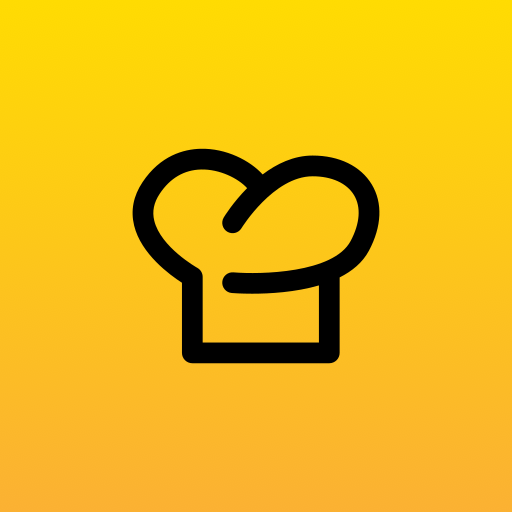
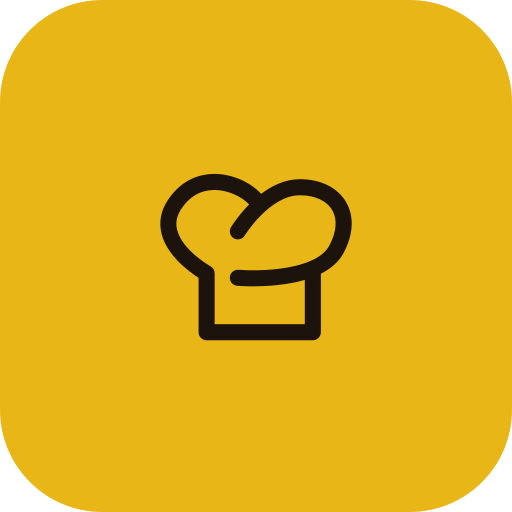
feat: rebranding and moving to the kitshn-app org

diff --git a/shared/src/commonMain/kotlin/de/kitshn/ui/route/onboarding/OnboardingWelcome.kt b/shared/src/commonMain/kotlin/de/kitshn/ui/route/onboarding/OnboardingWelcome.kt
@@ -30,14 +30,12 @@ import androidx.compose.runtime.remember
 import androidx.compose.runtime.rememberCoroutineScope
 import androidx.compose.ui.Alignment
 import androidx.compose.ui.Modifier
-import androidx.compose.ui.graphics.Brush
 import androidx.compose.ui.unit.dp
 import de.kitshn.api.tandoor.TandoorRequestState
 import de.kitshn.ui.component.onboarding.KitshnLogoAnimationWrapper
 import de.kitshn.ui.randomBackgroundShape
 import de.kitshn.ui.route.RouteParameters
-import de.kitshn.ui.theme.KitshnYellowBright
-import de.kitshn.ui.theme.KitshnYellowDark
+import de.kitshn.ui.theme.KitshnYellow
 import de.kitshn.ui.theme.Typography
 import kitshn.shared.generated.resources.Res
 import kitshn.shared.generated.resources.action_next
@@ -129,14 +127,8 @@ fun RouteOnboardingWelcome(
                                 text = p.vm.uiState.userDisplayName.ifBlank {
                                     p.vm.tandoorClient?.credentials?.username ?: ""
                                 },
-                                style = Typography().displaySmall.copy(
-                                    brush = Brush.horizontalGradient(
-                                        colors = listOf(
-                                            KitshnYellowBright,
-                                            KitshnYellowDark
-                                        )
-                                    )
-                                )
+                                style = Typography().displaySmall,
+                                color = KitshnYellow
                             )
                         }
 

diff --git a/web/.vitepress/theme/custom.css b/web/.vitepress/theme/custom.css
@@ -64,10 +64,10 @@
   --vp-c-green-3: #30a46c;
   --vp-c-green-soft: rgba(16, 185, 129, 0.14);
 
-  --vp-c-yellow-1: #915930;
-  --vp-c-yellow-2: #946300;
-  --vp-c-yellow-3: #9f6a00;
-  --vp-c-yellow-soft: rgba(234, 179, 8, 0.14);
+  --vp-c-yellow-1: #907100;
+  --vp-c-yellow-2: #a27f00;
+  --vp-c-yellow-3: #b18f00;
+  --vp-c-yellow-soft: rgba(232, 182, 22, 0.14);
 
   --vp-c-red-1: #b8272c;
   --vp-c-red-2: #d5393e;
@@ -98,10 +98,10 @@
   --vp-c-green-3: #298459;
   --vp-c-green-soft: rgba(16, 185, 129, 0.16);
 
-  --vp-c-yellow-1: #f9b44e;
-  --vp-c-yellow-2: #da8b17;
-  --vp-c-yellow-3: #a46a0a;
-  --vp-c-yellow-soft: rgba(234, 179, 8, 0.16);
+  --vp-c-yellow-1: #e6cd6d;
+  --vp-c-yellow-2: #cdaf33;
+  --vp-c-yellow-3: #b39200;
+  --vp-c-yellow-soft: rgba(232, 182, 22, 0.16);
 
   --vp-c-red-1: #f66f81;
   --vp-c-red-2: #f14158;

diff --git a/shared/src/commonMain/kotlin/de/kitshn/ui/theme/Color.kt b/shared/src/commonMain/kotlin/de/kitshn/ui/theme/Color.kt
@@ -2,9 +2,7 @@ package de.kitshn.ui.theme
 
 import androidx.compose.ui.graphics.Color
 
-val KitshnYellowBright = Color(0xFFFFF39E)
-val KitshnYellow = Color(0xFFFBB034)
-val KitshnYellowDark = Color(0xFFC18728)
+val KitshnYellow = Color(0xFFE8B616)
 
 val Success = Color(0xFF66DD66)
 

diff --git a/README.md b/README.md
@@ -1,22 +1,15 @@
-> [!CAUTION]
-> ‼ Android will become a locked-down platform. Learn more: https://keepandroidopen.org/
-
 ![kitshn (for Tandoor)](/images/title_light.png#gh-light-mode-only)
 ![kitshn (for Tandoor)](/images/title_dark.png#gh-dark-mode-only)
 ---
-![GitHub](https://img.shields.io/github/license/aimok04/kitshn?style=for-the-badge) ![GitHub release (latest by date)](https://img.shields.io/github/v/release/aimok04/kitshn?style=for-the-badge)
+![GitHub](https://img.shields.io/github/license/kitshn-app/kitshn?style=for-the-badge&color=e8b616&labelColor=1c140c) ![GitHub release (latest by date)](https://img.shields.io/github/v/release/kitshn-app/kitshn?style=for-the-badge&color=e8b616&labelColor=1c140c)
 
-**kitshn** is an unofficial multiplatform client for the self-hosted [Tandoor recipe management software](https://github.com/TandoorRecipes/recipes). The app is built with **Compose**, and **Material 3 Expressive** to deliver a modern, intuitive and responsive user experience and is developed for Android, iOS and Desktop.
-
-> [!IMPORTANT]
-> Although kitshn is available to multiple platforms, the main focus is still on Android.
-> Some features are exclusive to that platform.
+**kitshn** is an unofficial multiplatform client for the self-hostable [Tandoor Recipes](https://github.com/TandoorRecipes/recipes) application. The app is built with **Compose** and **Material 3 Expressive** to deliver a modern, intuitive and responsive user experience. It is developed for Android, iOS and Desktop.
 
 ## 📦 Installation
 
 [<img src="/images/badge_github.png"
 alt="Get it on GitHub"
-height="80">](https://github.com/aimok04/kitshn/releases)
+height="80">](https://github.com/kitshn-app/kitshn/releases)
 [<img src="https://fdroid.gitlab.io/artwork/badge/get-it-on.png"
 alt="Get it on F-Droid"
 height="80">](https://f-droid.org/packages/de.kitshn.android/)

diff --git a/web/download.md b/web/download.md
@@ -9,7 +9,7 @@ import { ref, onMounted } from 'vue'
 const gh = ref([])
 
 onMounted(async () => {
-  const ghres = await fetch('https://api.github.com/repos/aimok04/kitshn/releases')
+  const ghres = await fetch('https://api.github.com/repos/kitshn-app/kitshn/releases')
   gh.value = await ghres.json()
   
   if(gh.value[0]?.name === "nightly") gh.value.shift()
@@ -29,8 +29,8 @@ F-Droid releases are delayed by up to one week. Use **IzzyOnDroid**, **Obtainium
 ### Built and signed by myself
 <div style="display: flex; flex-direction: row; flex-wrap: wrap">
     <badge src="izzyondroid" label="IzzyOnDroid" link="https://android.izzysoft.de/repo/apk/de.kitshn.android" />
-    <badge src="obtainium" label="Obtainium" link="obtainium://add/github.com/aimok04/kitshn" />
-    <badge src="github" label="GitHub" link="https://github.com/aimok04/kitshn/releases" />
+    <badge src="obtainium" label="Obtainium" link="obtainium://add/github.com/kitshn-app/kitshn" />
+    <badge src="github" label="GitHub" link="https://github.com/kitshn-app/kitshn/releases" />
 </div>
 
 #### Verified open source
@@ -63,4 +63,4 @@ Reject Google, return to privacy.
 
 New versions include `.flatpak` binaries. These are **experimental** and some features might be broken.
 
-<badge src="github" label="GitHub" link="https://github.com/aimok04/kitshn/releases" />
+<badge src="github" label="GitHub" link="https://github.com/kitshn-app/kitshn/releases" />

diff --git a/web/docs/features/share-wrapping.md b/web/docs/features/share-wrapping.md
@@ -6,12 +6,12 @@ For the sake of transparency, the » **x.kitshn.app** « website is hosted on Gi
 
 ---
 
-The share wrapping url can be changed in the [`kitshn.properties`](https://github.com/aimok04/kitshn/blob/main/kitshn.properties) file.
+The share wrapping url can be changed in the [`kitshn.properties`](https://github.com/kitshn-app/kitshn/blob/main/kitshn.properties) file.
 ```txt{2}
 # default kitshn share wrapper
 share.wrapper.url="https://x.kitshn.app/#"
 ```
-You should also change the [`AndroidManifest.xml`](https://github.com/aimok04/kitshn/blob/main/app/src/main/AndroidManifest.xml) when changing the share wrapping url.
+You should also change the [`AndroidManifest.xml`](https://github.com/kitshn-app/kitshn/blob/main/app/src/main/AndroidManifest.xml) when changing the share wrapping url.
 ```xml{11}
 ...
 <intent-filter android:autoVerify="true">

diff --git a/web/docs/build-and-config.md b/web/docs/build-and-config.md
@@ -16,11 +16,11 @@ You can build Desktop binaries on Linux and Windows by running `./gradlew[.bat] 
 
 # kitshn.properties
 
-Consider changing the [`kitshn.properties`](https://github.com/aimok04/kitshn/blob/main/kitshn.properties).
+Consider changing the [`kitshn.properties`](https://github.com/kitshn-app/kitshn/blob/main/kitshn.properties).
 
 ```txt
-about.github=https://www.github.com/aimok04/kitshn
-about.github.new.issue=https://www.github.com/aimok04/kitshn/issues/new
+about.github=https://www.github.com/kitshn-app/kitshn
+about.github.new.issue=https://www.github.com/kitshn-app/kitshn/issues/new
 about.contact.website=https://kitshn.app
 about.contact.mailto=contact@kitshn.app
 about.apple.appstore=https://apps.apple.com/us/app/kitshn-for-tandoor/id6740168361

diff --git a/web/docs/features/social-media-import.md b/web/docs/features/social-media-import.md
@@ -13,4 +13,4 @@ You can share a post with *kitshn* or open the *kitshn* app, click the **Import*
 
 kitshn will scrape the *post description* and *cover image* and will try to convert the post into a Tandoor recipe.
 
-This feature is **not very stable** yet. Please feel free to report any issues on [GitHub](https://github.com/aimok04/kitshn).
+This feature is **not very stable** yet. Please feel free to report any issues on [GitHub](https://github.com/kitshn-app/kitshn).

diff --git a/web/contact.md b/web/contact.md
@@ -4,5 +4,5 @@ You can reach me here:
 - [contact@kitshn.app](mailto:contact@kitshn.app)
 - [Github (@aimok04)](https://github.com/aimok04)
 
-You can also open an [issue on Github](https://github.com/aimok04/kitshn/issues/new/choose) (public).
+You can also open an [issue on Github](https://github.com/kitshn-app/kitshn/issues/new/choose) (public).
 This is especially recommended for bug reports and feature requests.
